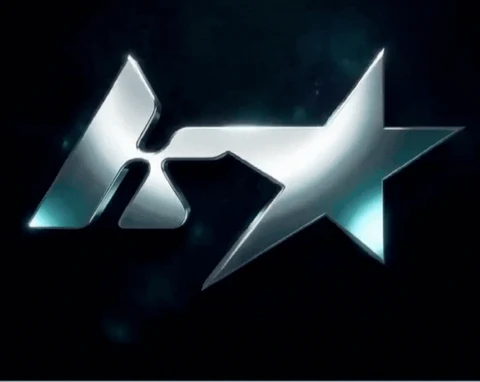
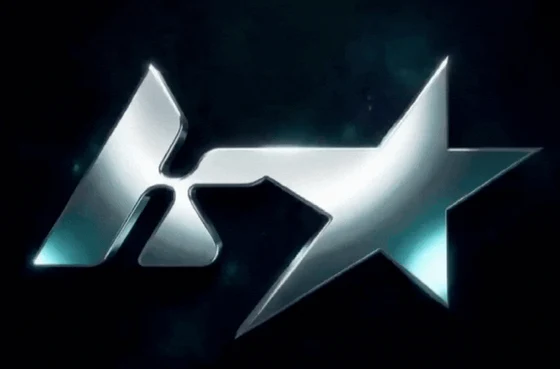
Hero: animación sin marco, centrada y más grande
Sin marco: se quita el fondo, borde, blur y sombra de la tarjeta de vidrio. El
negro de la animación se elimina con mix-blend-mode: screen, que lo vuelve
transparente y deja solo el cromado sobre el fondo de la página. Quitar el marco
sin el blend no alcanzaba: el rectángulo negro se recortaba contra el fondo
azulado aunque la diferencia numérica fuera de apenas 16 en el canal azul.

El blend solo sirve en oscuro. Sobre fondo claro borra el logo entero, medido:
el rango dinámico de la escena caía a 23 sobre 255. En prefers-color-scheme:
light el blend vuelve a normal y la animación conserva su fondo como panel, con
esquinas redondeadas y sombra, igual criterio que el resto de los soportes del
logo en claro.

Simétrico: el recorte anterior dejaba 27 px de margen sobre el logo y 131
debajo. El nuevo, (0,122,800,649), queda centrado: 21 arriba y 20 abajo. De
paso se corrigió el borde inferior, que arranca en la fila 754 y no en 758; las
4 filas de diferencia se veían como una franja clara.

Más grande: de 401 a 486 px, sumando el ancho del padding de la escena, que ya
no hace falta, y ajustando las columnas a 1.08/0.92.

El titular pasa a topar en 4rem. A 88 px la palabra "reconocimiento" medía
768 px contra una columna de 607 y se montaba sobre la animación; ahora mide
558 contra 570 y quedan 64 px de separación.

Verificado en ambos modos y en 320/390/768/1024/1440: sin desborde de página ni
del titular, sin errores de JS, y prefers-reduced-motion sigue entregando el
[…]

diff --git a/assets/css/styles.css b/assets/css/styles.css
@@ -37,7 +37,7 @@
   --fs-xl:   clamp(1.375rem, 1vw + 1.1rem, 1.75rem);
   --fs-2xl:  clamp(1.75rem, 2vw + 1.2rem, 2.5rem);
   --fs-3xl:  clamp(2.1rem, 3.2vw + 1.1rem, 3.5rem);
-  --fs-hero: clamp(min(2.6rem, 11vw), 6vw + 0.4rem, 5.5rem);
+  --fs-hero: clamp(min(2.6rem, 11vw), 4.6vw + 0.4rem, 4rem);
 
   /* Espaciado, base 4px */
   --sp-1:.25rem; --sp-2:.5rem;  --sp-3:.75rem; --sp-4:1rem;
@@ -350,43 +350,31 @@ button { font: inherit; color: inherit; }
 .hero__actions .btn { flex: 1 1 13rem; }
 
 /* Escena 3D del hero */
-.scene { position: relative; display: grid; place-items: center; perspective: 1000px; padding: var(--sp-5); }
+.scene { position: relative; display: grid; place-items: center; }
 .scene__stack {
-  position: relative; width: min(100%, 26rem); aspect-ratio: 800 / 636;
+  position: relative; width: min(100%, 34rem); aspect-ratio: 800 / 527;
 }
 .scene__card {
-  position: absolute; inset: 6%;
+  /* Sin marco: la animación se apoya directamente sobre el fondo de la página.
+     Su propio fondo es casi negro y coincide con --void-900. */
+  position: absolute; inset: 0;
   display: grid; place-items: center;
-  padding: 0;
-  overflow: hidden;
-  border-radius: var(--r-xl);
-  background: linear-gradient(155deg, rgba(255,255,255,.10), rgba(255,255,255,.02));
-  border: 1px solid var(--border-str);
-  backdrop-filter: blur(14px); -webkit-backdrop-filter: blur(14px);
-  box-shadow: var(--shadow-3), inset 0 1px 0 rgba(255,255,255,.18);
 }
 .scene__card img {
   width: 100%; height: auto;
-  border-radius: inherit;
+  /* El fondo de la animación es negro: 'screen' lo vuelve transparente y deja
+     solo el cromado, sin rectángulo recortado contra el fondo de la página.
+     Solo sirve sobre fondo oscuro: en claro borraría el logo. */
+  mix-blend-mode: screen;
 }
-
-/* En modo claro el cromado necesita fondo oscuro: la escena y los paneles que
-   sostienen el logo se mantienen oscuros. Es un recurso deliberado, no un parche. */
 @media (prefers-color-scheme: light) {
-  .hero__bg {
-    background:
-      radial-gradient(50% 44% at 78% 12%, rgba(42,159,214,.10), transparent 68%),
-      radial-gradient(46% 40% at 12% 78%, rgba(120,110,220,.08), transparent 70%),
-      var(--bg);
-  }
-  .scene__card {
-    background: linear-gradient(155deg, var(--void-700), var(--void-900));
-    border-color: rgba(227,229,215,.22);
-    box-shadow: var(--shadow-3), inset 0 1px 0 rgba(255,255,255,.14);
-  }
-  .brand img, .footer__brand img, .contact__aside img {
-    padding: .3rem .5rem;
-    box-shadow: 0 1px 3px rgba(4,1,19,.2);
+  /* Sobre fondo claro el cromado no se lee, así que la animación conserva su
+     propio fondo oscuro y se presenta como panel. Mismo criterio que el resto
+     de los soportes del logo en modo claro. */
+  .scene__card img {
+    mix-blend-mode: normal;
+    border-radius: var(--r-lg);
+    box-shadow: var(--shadow-3);
   }
 }
 
@@ -626,7 +614,7 @@ button { font: inherit; color: inherit; }
 @media (min-width: 60rem) {
   .nav__links, .nav__cta { display: inline-flex; }
   .nav__toggle, .drawer { display: none; }
-  .hero__inner { grid-template-columns: minmax(0,1.15fr) minmax(0,.85fr); }
+  .hero__inner { grid-template-columns: minmax(0,1.08fr) minmax(0,.92fr); }
   .cards { grid-template-columns: repeat(3, 1fr); }
   .card--feature { grid-column: span 3; }
   .plans { grid-template-columns: repeat(3, 1fr); }

diff --git a/index.html b/index.html
@@ -94,7 +94,7 @@
     <div class="scene reveal" style="--delay:200ms">
       <div class="scene__stack" id="scene">
         <div class="scene__card">
-          <picture><source media="(prefers-reduced-motion: reduce)" type="image/webp" srcset="assets/img/kydos-spin-static.webp"><source type="image/webp" srcset="assets/img/kydos-spin.webp"><img src="assets/img/kydos-mark-silver@2x.png" alt="Isotipo de Kydos girando sobre su eje" width="480" height="382"></picture>
+          <picture><source media="(prefers-reduced-motion: reduce)" type="image/webp" srcset="assets/img/kydos-spin-static.webp"><source type="image/webp" srcset="assets/img/kydos-spin.webp"><img src="assets/img/kydos-mark-silver@2x.png" alt="Isotipo de Kydos girando sobre su eje" width="560" height="369"></picture>
         </div>
       </div>
     </div>

diff --git a/CLAUDE.md b/CLAUDE.md
@@ -60,12 +60,23 @@ apagado del tilt 3D de las tarjetas. No romperlo.
 
 **El hero lleva el logo 3D girando en loop** (`kydos-spin.webp`), servido con
 `<picture>`: la primera `<source>` tiene `media="(prefers-reduced-motion: reduce)"`
-y entrega el frame fijo. La animación llena la tarjeta de vidrio de borde a
-borde (`padding: 0` + `overflow: hidden` + `border-radius: inherit`), y la
-tarjeta usa `aspect-ratio: 800 / 636`, la proporción real del recorte. **No
-rellenar la animación para hacerla cuadrada:** el relleno plano choca con el
-viñeteado del original y deja una costura visible; y recortarla a cuadrado
-corta el logo, que en algunos frames de la rotación llega a los bordes.
+y entrega el frame fijo.
+
+**Va sin marco, con `mix-blend-mode: screen`.** El fondo de la animación es
+negro; screen lo vuelve transparente y deja solo el cromado flotando sobre el
+fondo de la página. **Solo funciona en oscuro:** sobre fondo claro screen borra
+el logo por completo (se midió: rango dinámico 23 sobre 255). Por eso en
+`prefers-color-scheme: light` el blend vuelve a `normal` y la animación conserva
+su fondo oscuro como panel, con esquinas redondeadas y sombra.
+
+**El recorte es `(0, 122, 800, 649)` y está centrado en el logo.** El borde
+blanco del original arranca en la fila **754**, no 758, y el logo va de la fila
+151 a la 620: recortar hasta 758 dejaba 4 filas claras que se veían como una
+franja, y recortar sin centrar dejaba 27 px de margen arriba contra 131 abajo.
+La proporción resultante, `aspect-ratio: 800 / 527`, es la del recorte: **no
+rellenar para hacerlo cuadrado** (el relleno plano choca con el viñeteado y deja
+costura) ni recortar a cuadrado (corta el logo, que en algunos frames llega a
+los bordes laterales).
 
 **El hero no se mueve con el cursor y no lleva anillos.** Se quitaron a pedido:
 la escena es una tarjeta de vidrio con el logo, y nada más. No reintroducirlos.
@@ -124,7 +135,11 @@ consola, y los hovers renderizando de verdad.
   izquierda, más 42 px de banda blanca arriba y abajo. El recorte
   `(0, 122, 800, 758)` saca las tres cosas: 42 de borde más 80 para la marca.
   Verificado midiendo el mínimo sobre los 200 frames, no a ojo sobre uno solo.
-- **El GIF pesaba 8,9 MB; el WebP animado pesa 463 KB.** 20 veces menos, con
+- **El titular del hero está limitado por su columna, no por el viewport.**
+  `--fs-hero` topa en `4rem`: a 88 px la palabra "reconocimiento" medía 768 px
+  contra una columna de 607 y se montaba sobre la animación. Al agrandar la
+  animación hay que volver a medir esa palabra, no estimarla.
+- **El GIF pesaba 8,9 MB; el WebP animado pesa 544 KB.** 20 veces menos, con
   100 frames a 66 ms en vez de 200 a 33. El original queda en
   `assets/img/source/kydos-spin-original.gif`.
 - **Los planes no llevan precio.** No fueron especificados. Los CTA van a contacto.
